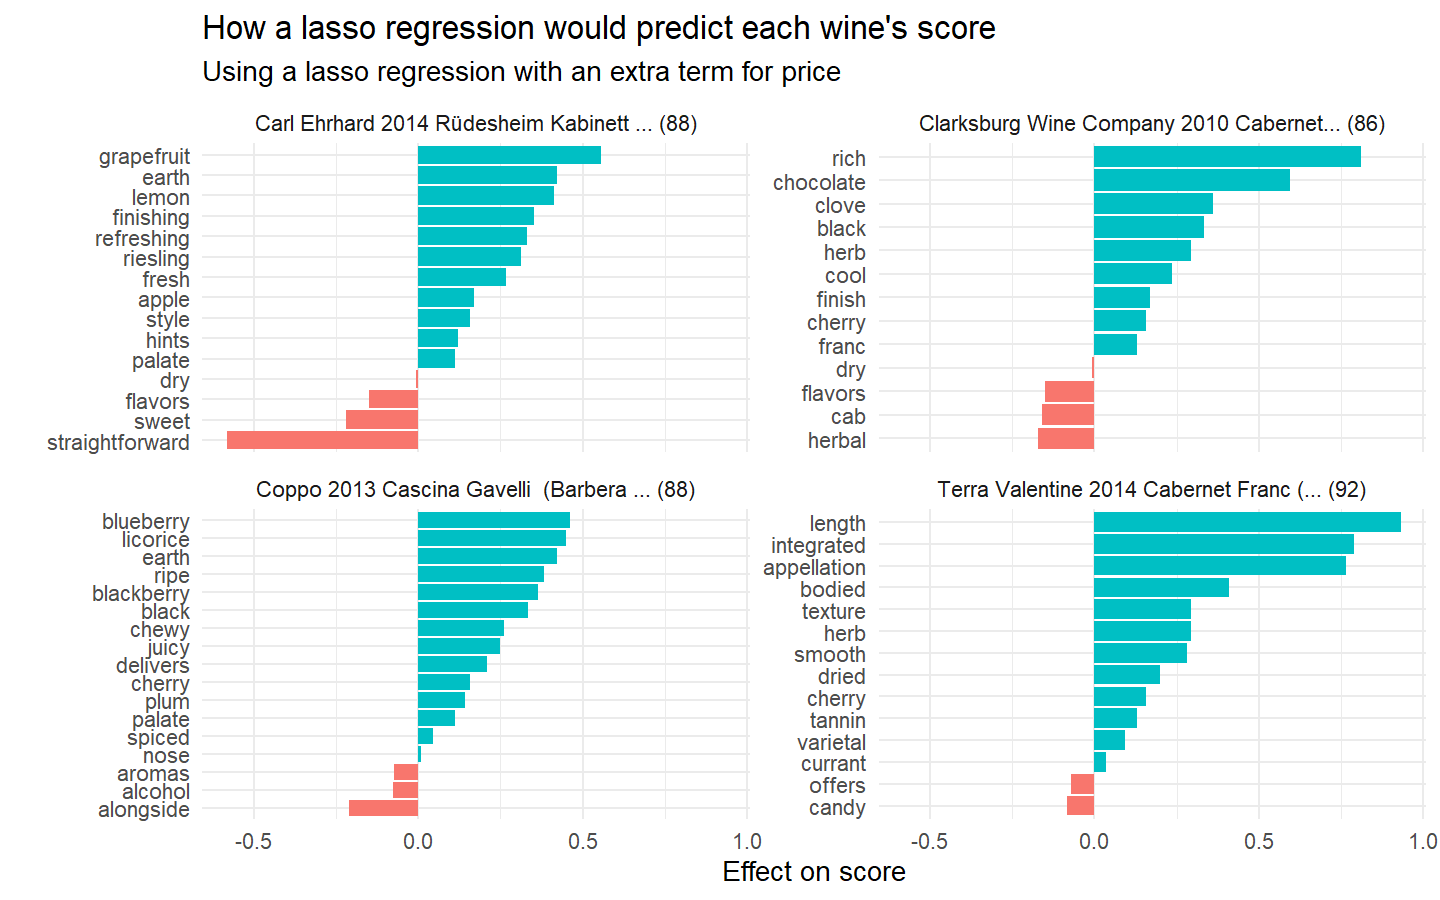
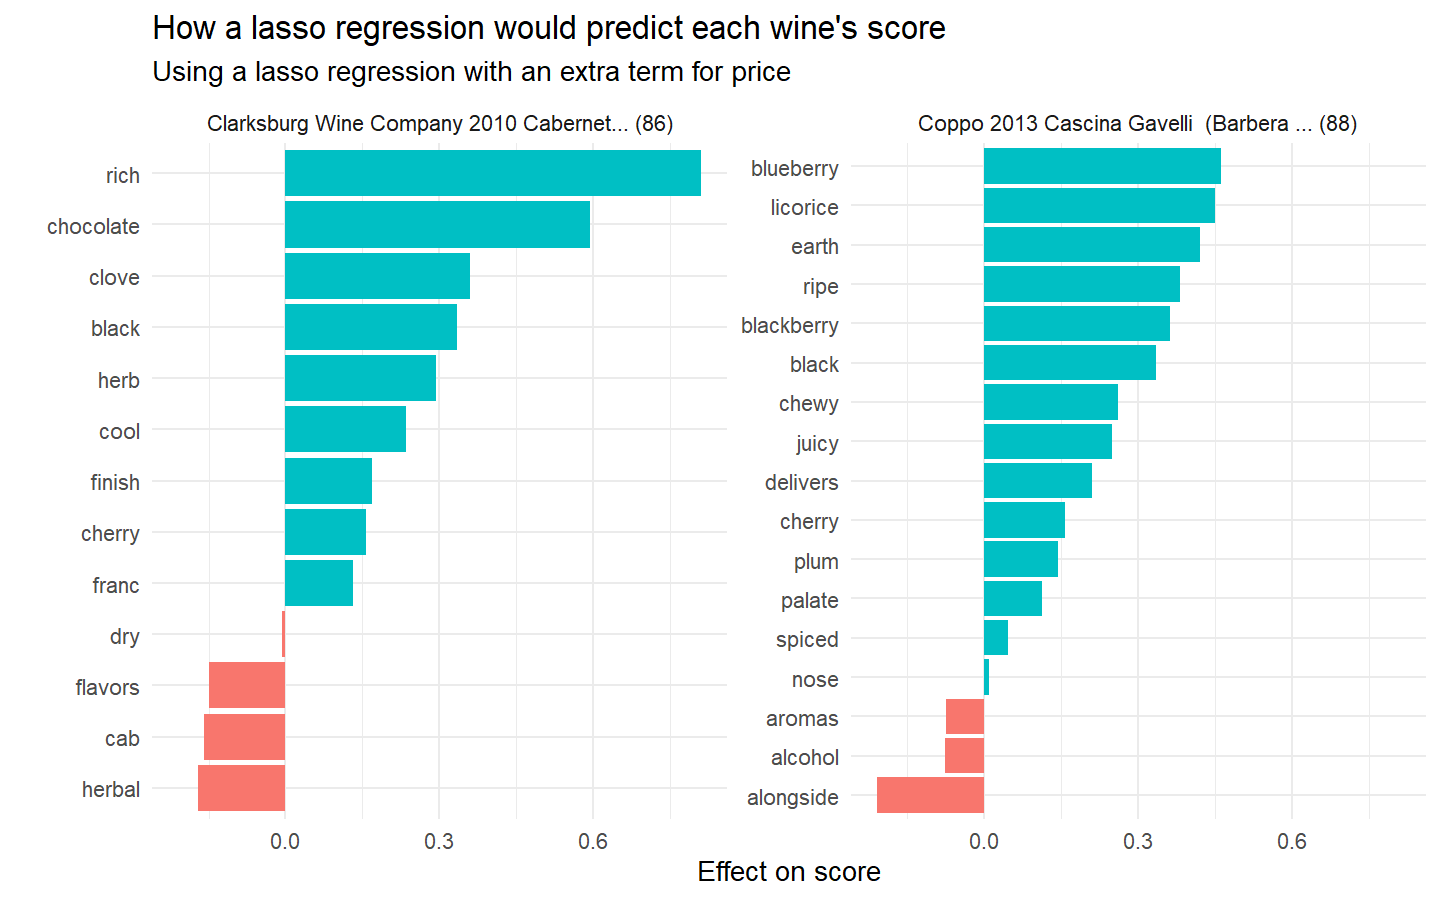
updated some graphs

diff --git a/markdown/20190528_wine_ratings/README.md b/markdown/20190528_wine_ratings/README.md
@@ -19,7 +19,8 @@ business.
       - [Model Building](#model-building)
       - [Model Evaluation](#model-evaluation)
       - [Text Mining](#text-mining)
-      - [GLMNET: How it works](#glmnet:#how-it-works)
+          - [GLMNET: How it works](#glmnet:#how-it-works)
+          - [Creating a Lexicon](#creating-a-lexicon)
 
 ![](./imgs/sponge-bob.jpg)
 
@@ -349,7 +350,7 @@ wine_df %>%
 wine_df %>% 
   group_by(year) %>% 
   summarise(count = n()) %>% 
-  ggplot(aes(x = year, y = count))+ 
+  ggplot(aes(x = year, y = count)) + 
     geom_col() +
     theme_minimal()
 ```
@@ -1409,8 +1410,7 @@ as an input & `doparallel` for parallel processing).
 
   - tidy text data
   - most used words
-  - pre-process data for `glmnet`
-  - …
+  - pre-process data for penalized regression
 
 **Tidy Text a code break-down**: The tidytext package is amazing if you
 are going to be doing anything from text mining & sentiment scoring to
@@ -1459,7 +1459,9 @@ wine_words_df
   - most used words
       - We are going to check the most frequent words. The cool thing to
         look at from the plot is the number of descriptors for tast
-        being used.
+        being used. Although, this is cool to look at, how can we tell
+        what the how negative or positive our words are on our
+        prediction?
 
 <!-- end list -->
 
@@ -1481,7 +1483,14 @@ wine_words_df %>%
 
 <img src="README_files/figure-gfm/unnamed-chunk-10-1.png" style="display: block; margin: auto;" />
 
-  - pre-process data for `glmnet`
+  - pre-process data for penalized regression
+      - **Penalized Regression**: Penalized regression(Lasso, Ridge, &
+        Elastic Net… google at your pleasure), method keeps variables,
+        but contrains them to zero by some penalty(lambda or \(\lambda\)
+        if you’re greek).
+      - This should be seen as another tool in the tool kit and has a
+        bunch of great uses. We are going to want to one of the most
+        popular implementations for penalized re
 
 <!-- end list -->
 
@@ -1526,7 +1535,7 @@ glmnet_mod <- cv.glmnet(
 )
 ```
 
-## check glmnet
+### GLMNET: How it works
 
 ``` r
 # you can see the impact of lambda on terms coefficients
@@ -1570,7 +1579,7 @@ plot(glmnet_mod)
 
 <img src="README_files/figure-gfm/unnamed-chunk-11-3.png" style="display: block; margin: auto;" />
 
-## Creating our own lexicon
+### Creating a Lexicon
 
 ``` r
 lexicon_df <- glmnet_mod$glmnet.fit %>%
@@ -1601,7 +1610,7 @@ lexicon_df %>%
 
 ``` r
 wine_words_df %>%
-  filter(wine_id %in% sample(unique(wine_id), 4)) %>%
+  filter(wine_id %in% sample(unique(wine_id), 2)) %>%
   distinct(word, title, points) %>%
   mutate(wine = paste0(str_trunc(title, 40), " (", points, ")")) %>%
   inner_join(lexicon_df, by = "word") %>%
